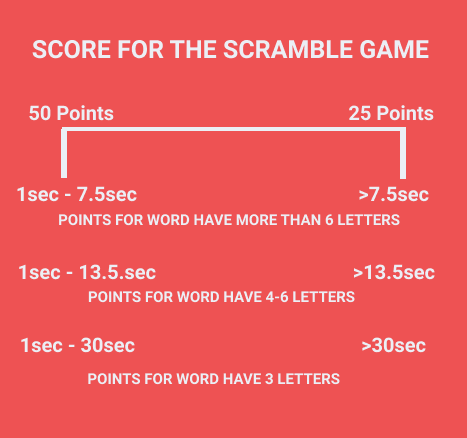
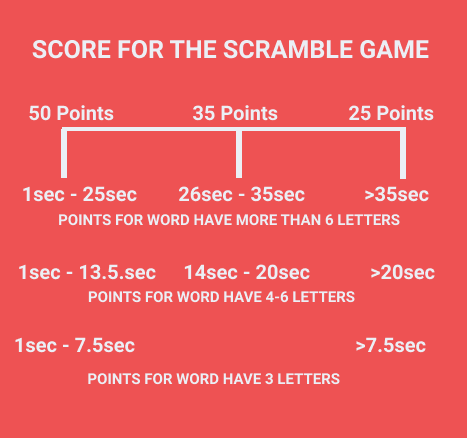
testing

diff --git a/script.js b/script.js
@@ -1,5 +1,5 @@
 //Defined an array which will stores the words for the game
-let words = ['PYTHON', 'JAVA', 'REACTJS', 'ANGULARJS', 'SQL', 'PHP', 'HTML', 'CSS', 'JAVASCRIPT', 'SWIFT', 'ANDROID', 'MYSQL', 'ORACLE', 'BOOTCAMP']
+let words = ['PYTHON', 'JAVA', 'REACTJS', 'ANGULARJS', 'SQL', 'PHP', 'HTML', 'CSS', 'RUBY', 'JAVASCRIPT', 'SWIFT', 'ANDROID', 'MYSQL', 'ORACLE', 'BOOTCAMP']
 //This ran value will generate a random number
 let ran = Math.floor(Math.random() * words.length)
 let userValueForScore
@@ -183,6 +183,8 @@ playBtn.addEventListener('click', () => {
         let winDivSelector = document.getElementById('winDiv')
         let wrapperSelector = document.getElementById('wrapper')
         let scoreSpamSelector = document.getElementById('score')
+        let TotalTimeSelector = document.getElementById('totalTime')
+        TotalTimeSelector.innerHTML = convertSec(finalTimeForScore)
         time = 300
         if (timeForScrambleGame == 7) {
             if (finalTimeForScore <= 7.5) {
@@ -191,7 +193,7 @@ playBtn.addEventListener('click', () => {
                 score = 25
             }
         } else if (timeForScrambleGame == 12) {
-            if (finalTimeForScore <= 10.5) {
+            if (finalTimeForScore <= 13.5) {
                 score = 50
             } else if (finalTimeForScore <= 20) {
                 score = 35

diff --git a/game.html b/game.html
@@ -29,6 +29,7 @@
         </div>
         <div id="winDiv">
             <h1>Congrats! You Won</h1>
+            <h1> Your have compeleted the game in <span id="totalTime"></span> min</h1>
             <h1>Your Score is <span id="score"></span>/50</h1>
             <img src="https://i1.faceprep.in/ProGrad/congrats-emoji.png">
             <button id="reset">Play again</button>
